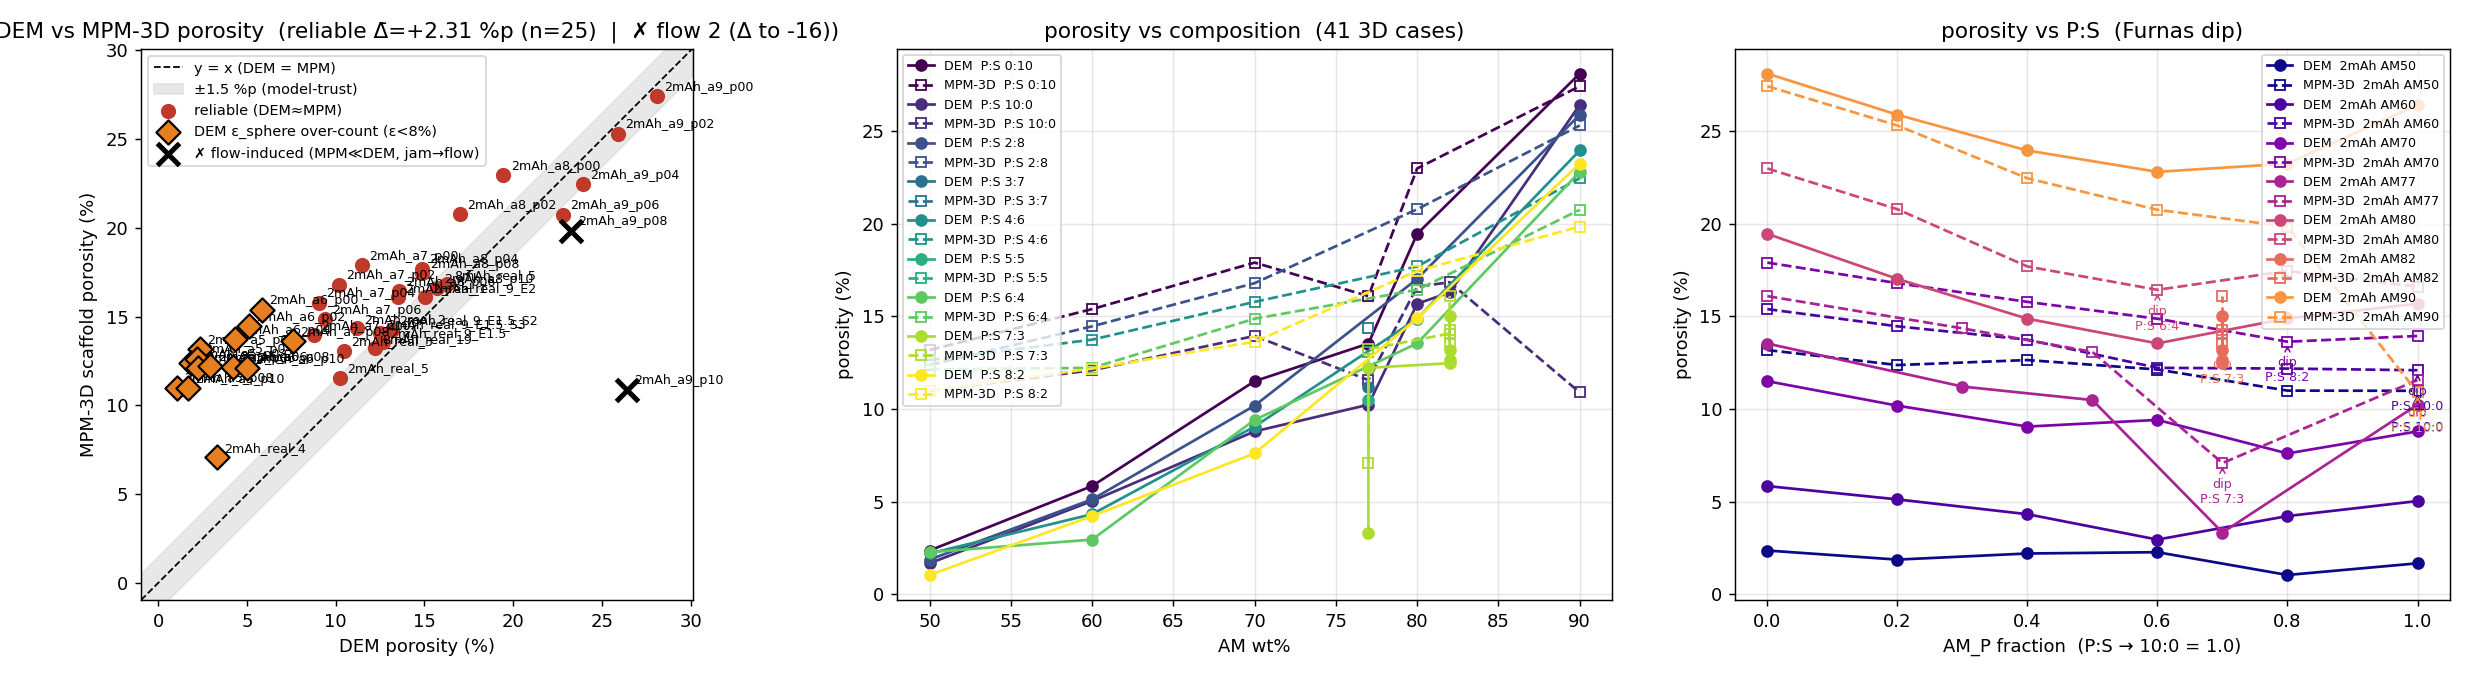
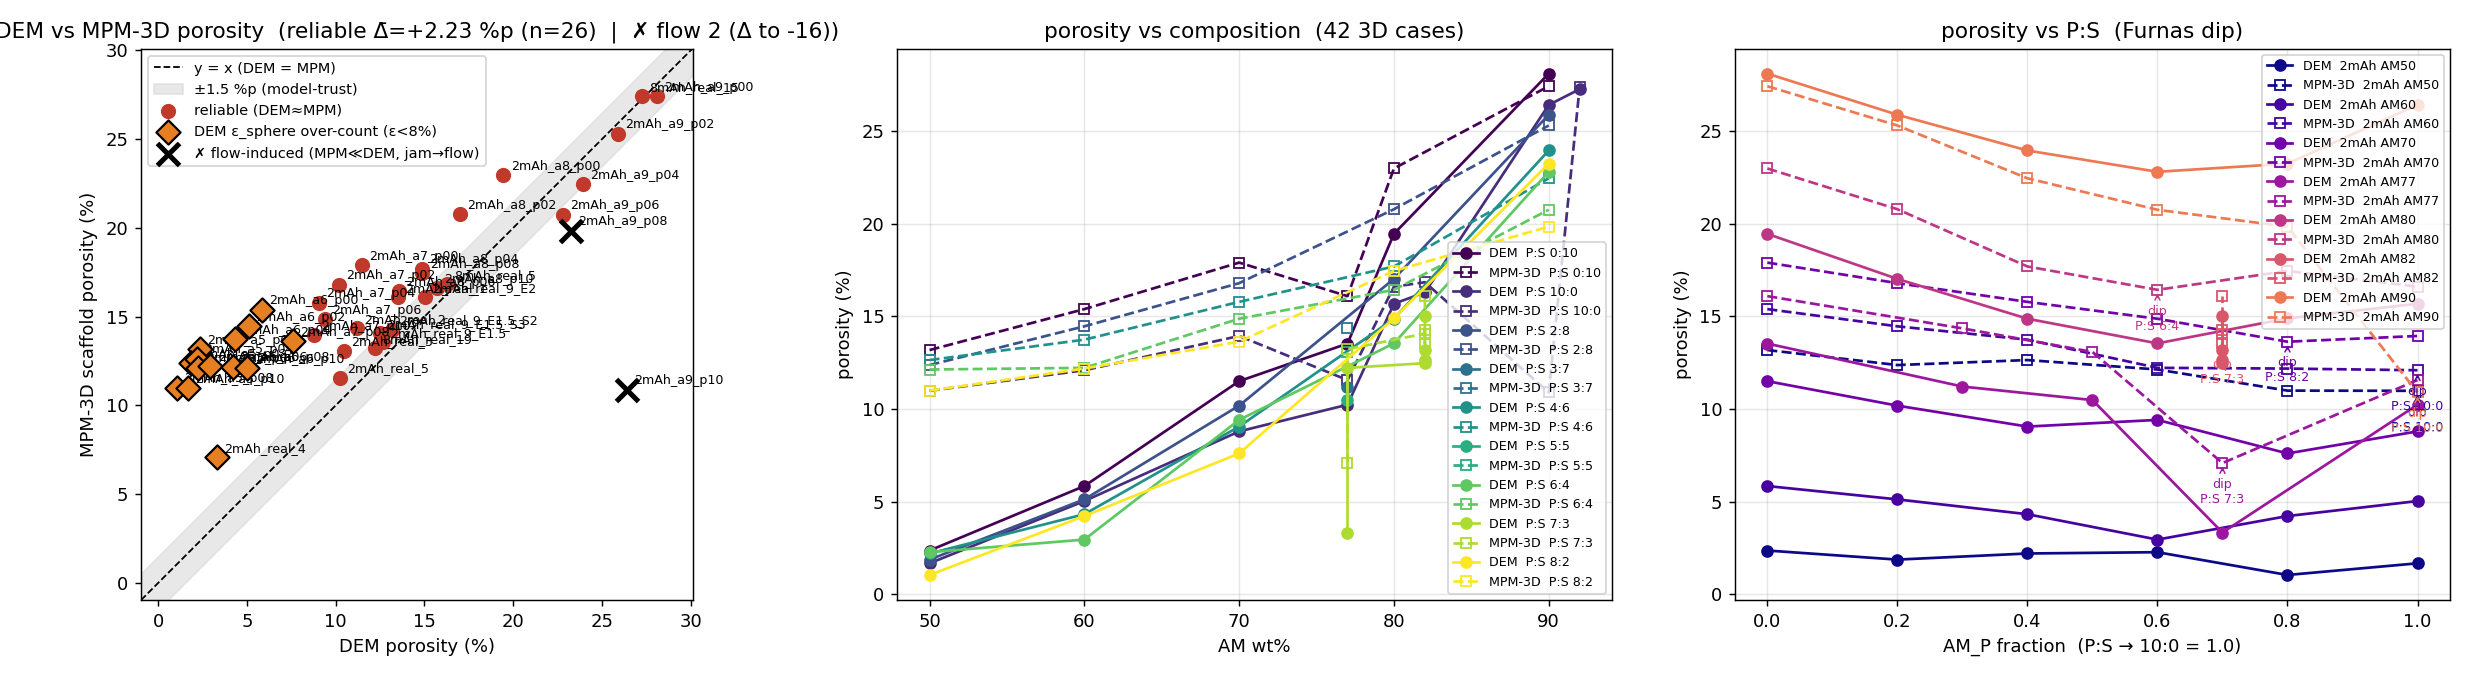
pipeline: add PIPELINE.md roadmap (additives->multiphysics->degradation) + real_15 data
real_15: AM92/SE8wt% SE-starved (phi_SE 0.127, r_SE 0.5), DEM 27.26 ~ MPM 27.40 ~
eps_union 27.8 (low overlap 0.71% -> all agree, reliable band). sigma_ionic 0.0052
(bottleneck, near percolation cliff), fracture 54% severe (pure AM_P 92wt%).
PIPELINE.md: master roadmap for the carbon-additive + grid-multiphysics + SOC-breathing
degradation extension (stages 1-3, params, recipes, cross-validation targets).

diff --git a/pipeline/PIPELINE.md b/pipeline/PIPELINE.md
@@ -1,0 +1,115 @@
+# Dry-Electrode Composite Pipeline — Microstructure → Multiphysics → Degradation
+
+Controlling roadmap for the conductive-additive + grid-multiphysics + chemo-mechanical
+degradation extension.  Built on the DEM↔MPM complementary frame (CLAUDE.md): DEM owns
+discrete packing/contacts/fracture, MPM owns plastic morphology/stress; here we ADD a
+grid field-solver (transport), conductive additives, and SOC-breathing degradation.
+Each model stays calibrated to experiment independently (frame [4]); agreement =
+cross-validation, disagreement = a quantified model limit.
+
+```
+ DEM (LIGGGHTS)            MPM grid (mpm3d_compaction)         grid multiphysics
+ ─────────────            ───────────────────────────         ─────────────────
+ AM+SE packing            SE plastic morphology (void-fill)   voxel_conductivity.py
+ contacts / Auerbach  ─▶  + ADDITIVES (VGCF/SuperP/PTFE)  ─▶  σ_ionic / σ_e / σ_thermal
+ force chains             stress / plastic-strain field       (0V/1V field solve, ∇·σ∇φ=0)
+        │                          │                                   │
+        └────────── SOC breathing (eigenstrain) ───────────────────────┘
+                    → stress → Auerbach fracture → contact/σ loss → DEGRADATION ↺
+```
+
+WHY this is possible where LIGGGHTS isn't: the DEM cost scales with **particle count**
+(nano carbon = millions of objects → impossible); the grid cost is **resolution-bound**,
+and the MPM already carries a **per-point material (µ, λ, σ_y)** — so an additive is just
+"more material points with different constants", no kernel change.  Nano features stay
+sub-grid → they enter HOMOGENISED (a fibre = a chain of points; carbon black = a blob).
+
+---
+
+## Modules
+
+| file | role | status |
+|------|------|--------|
+| `scripts/additives.py` | recipe wt% → VGCF/SuperP/PTFE counts (flexible) + seeding (fibres = point-chains, SuperP = blobs) | ✅ done, tested |
+| `scripts/voxel_conductivity.py` | image-based effective σ on the MPM voxel grid (FEM cross-check for the DEM network); ionic/electronic/thermal | ✅ done, self-test exact |
+| `scripts/mpm3d_compaction.py` | **+ `--add-recipe`** : seed additives as extra phases after SE | ⏳ Stage 1 |
+| (Stage-E σ-map builder) | per-voxel σ with Cronau/Trevisanello/Wang/fracture → apples-to-apples vs network solver | ⏳ Stage 2 |
+| (SOC breathing) | AM eigenstrain(SOC) → cyclic stress → Auerbach fracture → σ loss | ⏳ Stage 3 |
+
+---
+
+## Physical parameters (literature; tunable)
+
+| material | ρ (g/cm³) | size | mechanics (MPM) | σ_ionic | σ_e (mS/cm) | κ (W/m·K) |
+|----------|-----------|------|-----------------|---------|-------------|-----------|
+| AM (NMC811) | 4.80 | 6 / 2 µm | E 140 GPa, ~rigid | block | 50 | 4.0 |
+| SE (LPSCl)  | 1.64 | 0.5 µm   | E 1.53 GPa softened, σ_y 0.30, ν 0.49 | σ_grain·Cronau(r_SE) | block | 0.7 |
+| **VGCF**    | 2.00 | Ø0.15 × L10 µm (AR≈67) | **medium stiff + high yield** (keeps fibre shape, bends along AM) | block | 5·10⁵ | 20 |
+| **Super P** | 1.90 | ~0.2 µm aggregate (sphere) | soft filler | block | 1·10⁵ | 5 |
+| **PTFE**    | 2.20 | Ø~1 × L~50 µm fibril (hot-roll 85°C; branch to 10s nm) | **soft binder FIBRE** | block | 0 | 0.25 |
+
+VGCF + Super P are SEPARATE conductive additives — the recipe picks which goes in.
+PTFE morphology: dry-process hot-roll fibrillation → long thin threads spanning tens of
+NMC ([RSC D5EE03240G](https://pubs.rsc.org/en/content/articlehtml/2025/ee/d5ee03240g),
+[Front. Energy 2023.1336344](https://www.frontiersin.org/journals/energy-research/articles/10.3389/fenrg.2023.1336344/full)).
+
+### Production recipes
+- standard: `AM:SE:VGCF = 72:27:1` wt%  → vol% 46.9 : 51.5 : 1.6  → 6,354 VGCF fibres (real_9 RVE)
+- dry thick-film: `AM:SE:VGCF:PTFE = 80:18:1:1` wt% → vol% 58.3:38.4:1.7:1.6 → 7,102 VGCF + 194 PTFE fibrils
+
+---
+
+## Stage 1 — Carbon wiring (MPM morphology)   ⏳ IN PROGRESS
+**Goal:** seed VGCF/SuperP/PTFE into the MPM as extra phases → see where the additives sit
+after compaction (fibres threading the SE/voids, bending around AM — like the SEM).
+
+**How:** after the SE seed builds `xs / mus / las / ylds / pvs`, if `--add-recipe` given,
+call `additives.recipe_counts` (solid = AM_vol + SE) → seed fibre/blob points (box units,
+avoiding `am_mask`) → append with per-additive (µ,λ,σ_y):
+- VGCF  : E≈10 GPa, ν 0.3, σ_y≈2 GPa (high → no yield → fibre keeps shape, elastic bend)
+- SuperP: E≈0.5 GPa soft, low σ_y (compliant void filler)
+- PTFE  : E≈0.3 GPa soft binder fibre
+Track a numpy `phase` (1 SE / 2 VGCF / 3 SuperP / 4 PTFE; 0 AM = scaffold mask) for output
+(the kernel uses only µ/λ/σ_y → no P2G/G2P change).  Extend `--save-phase`.
+
+**Run (planned):**
+```
+python3 scripts/mpm3d_compaction.py --am-scaffold am.csv --se-dump se.csv --periodic \
+  --add-recipe "AM:SE:VGCF:PTFE=80:18:1:1" --save-phase phase.npy --save-se se.npy ...
+```
+
+---
+
+## Stage 2 — Stage-E σ-map (transport consistency)   ⏳
+**Goal:** the voxel field-solve must use the SAME literature-corrected σ as the DEM network
+solver (Cronau/Trevisanello/Wang + fracture), so FEM↔network is apples-to-apples.
+
+**How:** build a per-voxel σ map (voxel_conductivity already accepts a σ array):
+- SE voxels: σ_grain × **Cronau(r_SE)** (sub-µm amorphization)
+- AM voxels: **AM_P (poly) vs AM_S (single-crystal) Trevisanello** for σ_e; **Wang** for κ
+- fractured regions: **Lawn stage σ-loss** (map DEM Auerbach per-contact → voxels)
+Needs aux data: phase grid (have), AM_P/AM_S labels, fracture field.
+
+---
+
+## Stage 3 — SOC breathing → degradation   ⏳
+**Goal:** CC/CV charge + CC discharge volume changes (NMC ~2-6 vol% vs SOC) → cyclic stress
+→ fracture → contact/σ loss → cycle-life degradation.  No one has done this from microstructure.
+
+**How (staged):**
+1. single breathing step: AM eigenstrain ε_chem(SOC) (NMC SOC-volume literature curve), AM
+   elastic+eigenstrain (still no plastic flow — consistent with rigid-but-breathing) → MPM
+   stress field → where it exceeds the Auerbach/Lawn criterion (hotspots).
+2. few cycles: contact-area + σ drift.
+3. full cycle-life: needs a surrogate (1000 cycles × MPM solve infeasible).
+
+**Coupling (the degradation loop):** MPM breathing-stress → DEM Auerbach fracture criterion
+→ crack → contact/σ loss (voxel solve) → next cycle.  One-way first; two-way (crack → re-solve)
+is the real loop.
+
+---
+
+## Cross-validation targets (frame [4])
+- σ_eff(FEM voxel)  vs  σ_ionic(DEM network/Kirchhoff)  — validates Holm/Stage-E (cf. Bazzoun RNM↔FEM)
+- σ_e with carbon   vs  the "도전재 권장 / dead-AM" warning — turns the flag into a quantitative optimum
+- breathing fracture vs  the press-only Auerbach fracture — adds the chemo-mechanical stress source
